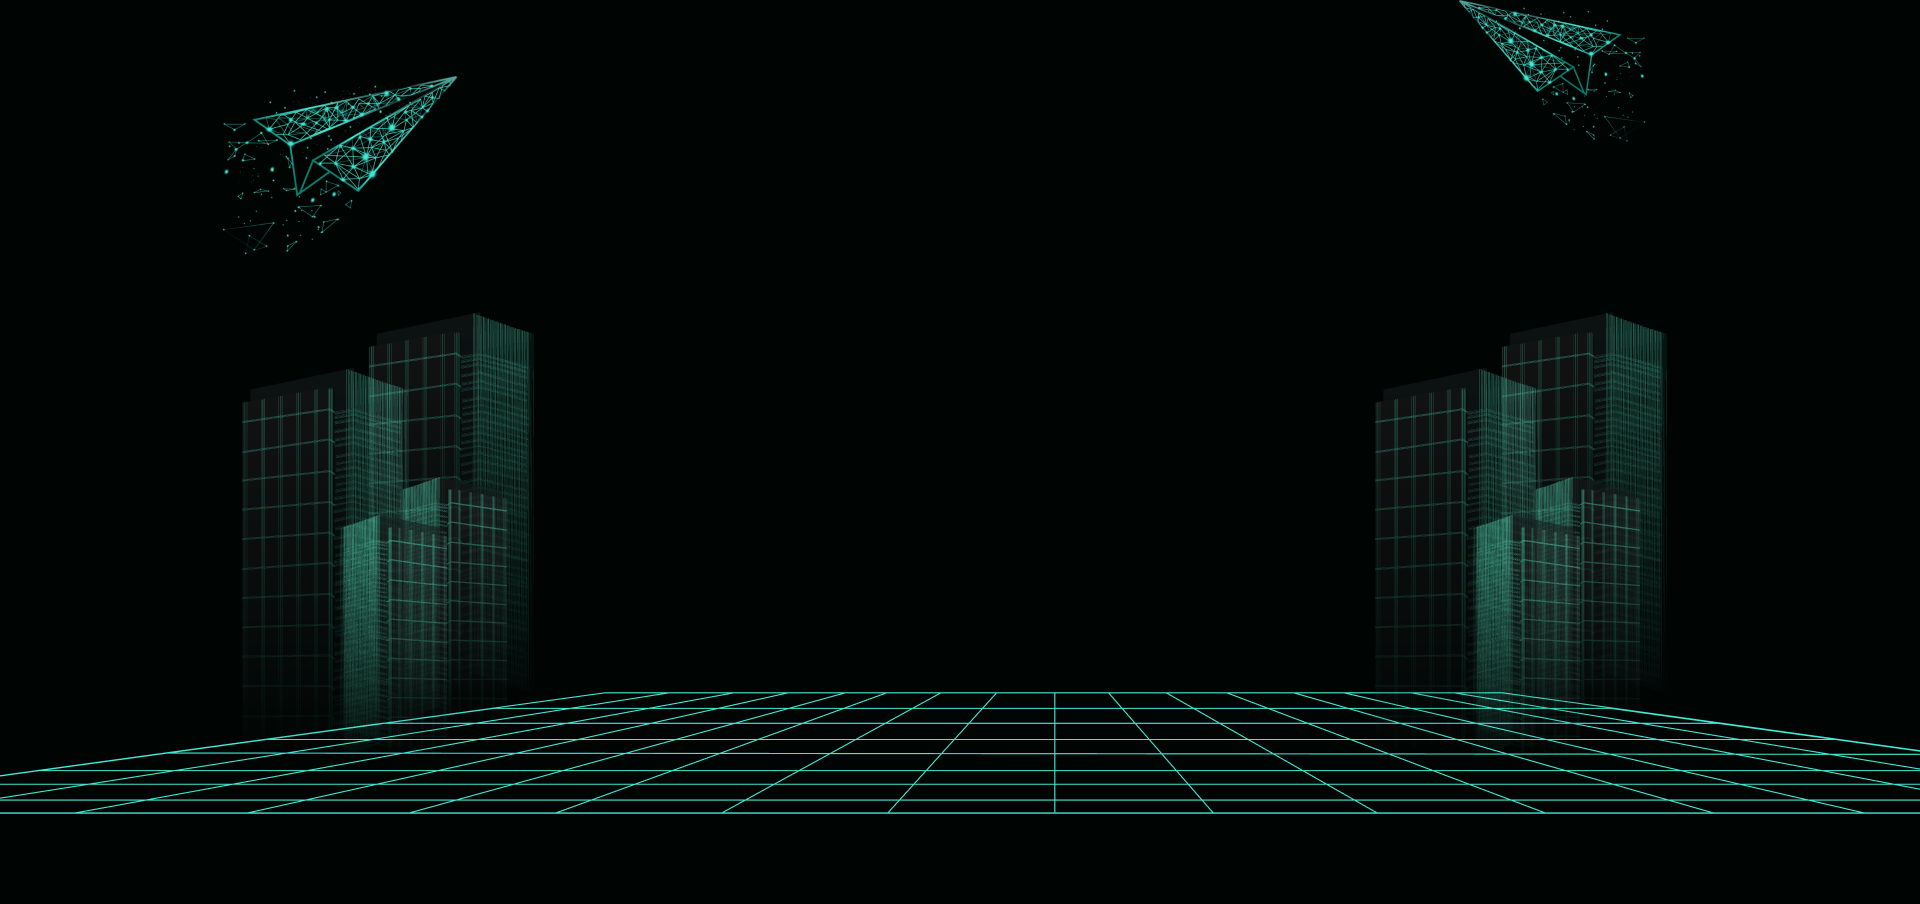
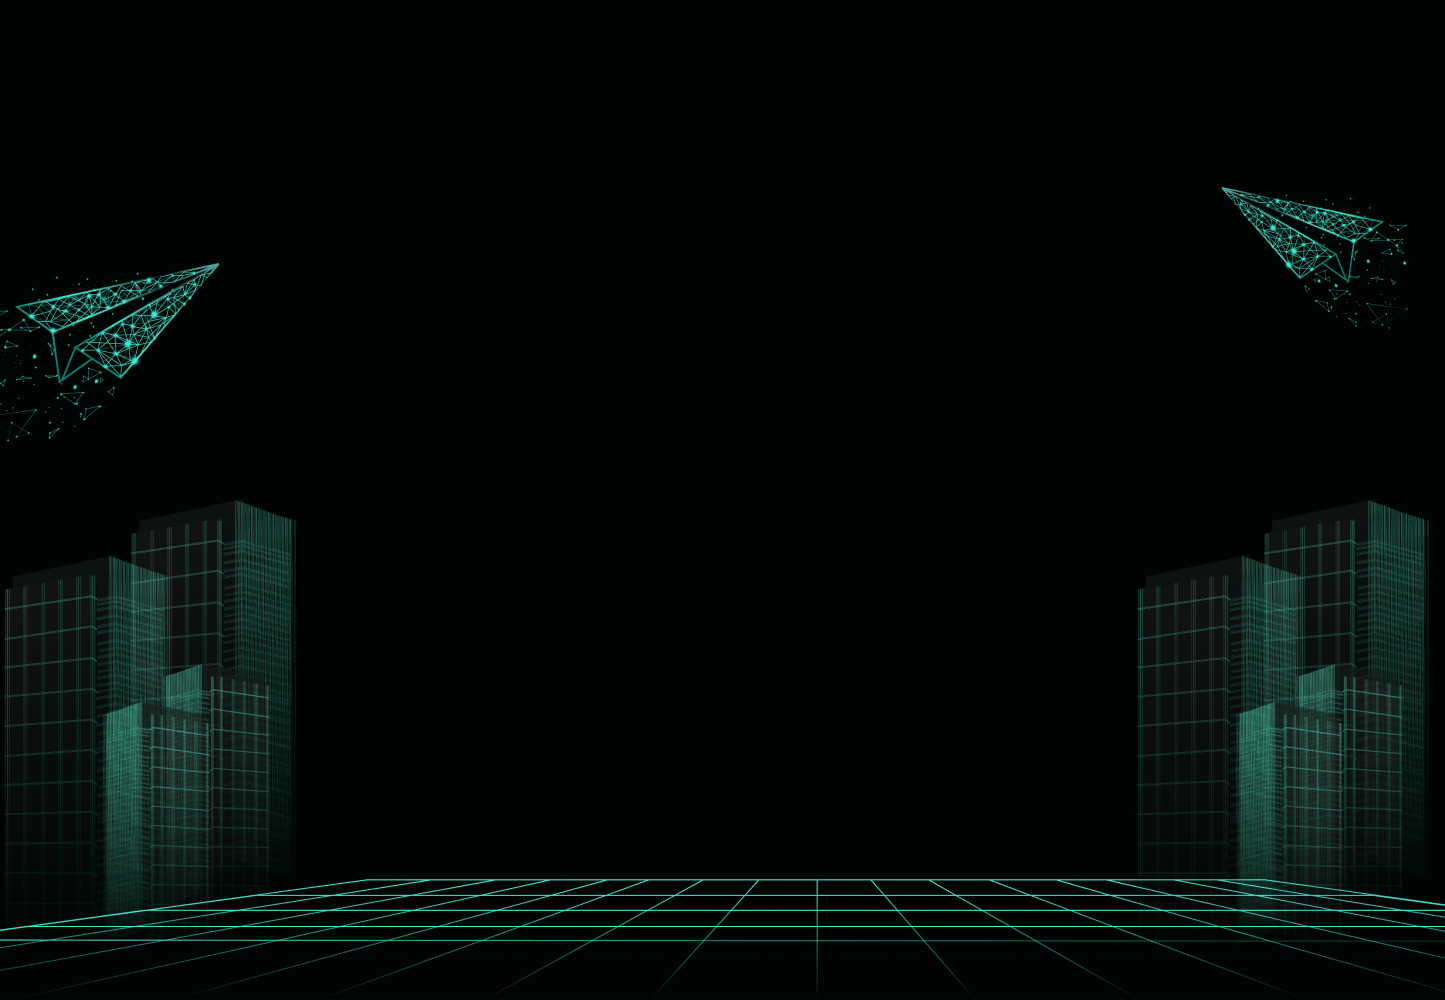
Optimization

diff --git a/src/sections/registration/Keseruan.tsx b/src/sections/registration/Keseruan.tsx
@@ -1,34 +1,57 @@
 import Image from "next/image";
-import { Button } from "@/components/elements/Button";
 import { HiOutlineArrowLeft, HiOutlineArrowRight } from 'react-icons/hi2'
 import { Carousel } from '@mantine/carousel';
-import { useRef } from "react";
 import { useState } from "react";
 import Tabs from "@/components/elements/Tabs";
 
 const events: {
   img: string,
+  title: string,
   desc: string
 }[] = [
   {
     img: "/icon/registration/icon-tourdecampus.png",
-    desc: "Tour de Campus"
+    title: "Tour de Campus",
+    desc: `Tour de Campus Fasilkom UI merupakan rangkaian acara utama pada Open House Fasilkom UI, dimana 
+    peserta akan datang ke Fasilkom UI dan melakukan serangkaian acara, seperti Tour Fasilkom UI, 
+    Mentoring Session, Fun coding, Interactive Class, Exhibition, Wall of Dream, Parent’s Talkshow, 
+    dan Grand Closing. Pada Tour de Campus Fasilkom UI ini peserta akan berinteraksi secara langsung 
+    dengan para civitas Fasilkom UI sehingga dapat memperluas wawasan peserta tentang Fasilkom.`
   },
   {
     img: "/icon/registration/icon-funcoding.png",
-    desc: "Fun Coding"
+    title: "Fun Coding",
+    desc: `Kegiatan ini merupakan salah satu ciri khas yang dimiliki Open House Fasilkom UI dari tahun ke 
+    tahun di mana para peserta mencoba menulis program secara langsung. Acara ini akan dikemas seperti 
+    sebuah permainan yang fun sehingga para peserta merasa bahwa coding itu seperti sedang memainkan game.`
   },
   {
     img: "/icon/registration/icon-class.png",
-    desc: "Interactive Class"
+    title: "Interactive Class",
+    desc: `Interactive Class merupakan kegiatan di mana peserta Open House Fasilkom akan merasakan 
+    pengalaman diajar langsung oleh dosen-dosen Fasilkom UI yang telah ditentukan. Kelas akan dibuat 
+    interaktif dengan memaksimalkan komunikasi serta pemanfaatan alat peraga untuk mendukung penyampaian 
+    materi yang disampaikan.`
   },
   {
     img: "/icon/registration/icon-talkshow.png",
-    desc: "Parent Talkshow"
+    title: "Parent Talkshow",
+    desc: `Parent’s Talkshow adalah salah satu acara yang akan berlangsung selama Main Event Open House 
+    Fasilkom UI 2023 berjalan. Acara ini akan mengundang speaker yang memiliki pemahaman tentang apa saja 
+    informasi yang dibutuhkan oleh peserta terkait penerimaan mahasiswa baru. Target dari acara ini adalah 
+    orang tua para peserta Open House Fasilkom UI 2023. Selama talkshow, para orang tua akan mendapatkan 
+    informasi seputar pendaftaran dan biaya kuliah di Fasilkom UI, prospek pekerjaan lulusan Fasilkom UI, 
+    dan banyak hal lainnya. Para orang tua juga diberi kesempatan untuk mengajukan pertanyaan kepada 
+    pembawa acara.`
   },
   {
     img: "/icon/registration/icon-connect.png",
-    desc: "CS Connect"
+    title: "CS Connect",
+    desc: `CS Connect adalah kegiatan yang akan diisi dengan Talkshow Online di main room Zoom dengan 
+    menghadirkan pengisi acara yang akan membawakan informasi-informasi tentang Fasilkom UI. Setelah sesi 
+    talkshow berakhir, peserta akan di-assign ke masing-masing breakout room untuk melaksanakan Mentoring 
+    Online dengan mentornya masing-masing dari LO. Materi yang diberikan akan berupa pengenalan jurusan 
+    yang ada di Fasilkom UI dan informasi teknis kegiatan pada Main Event selanjutnya.`
   },
 ]
 
@@ -80,7 +103,7 @@ export default function Keseruan() {
                     <div className="h-5/6 w-full flex items-center justify-center object-contain">
                       <Image src={event.img} alt="" width={100} height={100} className="object-contain h-full w-full"/>
                     </div>
-                    <p className="font-satoshi text-white-1 font-extrabold text-center text-xl">{event.desc}</p>
+                    <p className="font-satoshi text-white-1 font-extrabold text-center text-xl">{event.title}</p>
                   </div>     
                 </Carousel.Slide>
               ))}

diff --git a/src/sections/registration/ContactPerson.tsx b/src/sections/registration/ContactPerson.tsx
@@ -1,5 +1,5 @@
 import { Button } from "@/components/elements/Button";
-import { BsWhatsapp, BsInstagram } from "react-icons/bs"
+import { BsWhatsapp } from "react-icons/bs"
 
 const ContactPerson = () => {
   return (
@@ -14,33 +14,13 @@ const ContactPerson = () => {
         </p>
         <div className="flex md:flex-row flex-col mt-10 items-center px-5 gap-6">
           <a
-            href={'https://youtu.be/3MrUpj159rI?si=wEj4SQWzjL3K6f7e'}
+            href={'https://wa.me/6285161058384'}
             target="__blank"
             rel="noreferrer" 
             className="w-full"
           >
             <Button variant="primary" className="w-full">
-              <BsWhatsapp /> Jotaro
-            </Button>
-          </a>
-          <a
-            href={'https://youtu.be/dQw4w9WgXcQ?si=fHhfjbosNRiN96pf'}
-            target="__blank"
-            rel="noreferrer" 
-            className="w-full"
-          >
-            <Button variant="primary" className="w-full">
-              <BsWhatsapp /> Polnareff
-            </Button>
-          </a>
-          <a
-            href={'https://www.instagram.com/akanecco_2323/'}
-            target="__blank"
-            rel="noreferrer" 
-            className="w-full"
-          >
-            <Button variant="primary" className="w-full">
-              <BsInstagram /> Akane
+              <BsWhatsapp /> Open House Fasilkom UI
             </Button>
           </a>
         </div>

diff --git a/src/sections/registration/Keuntungan.tsx b/src/sections/registration/Keuntungan.tsx
@@ -1,10 +1,4 @@
 import Image from "next/image";
-import { Button } from "@/components/elements/Button";
-import { HiOutlineArrowLeft, HiOutlineArrowRight } from 'react-icons/hi2'
-import { Carousel } from '@mantine/carousel';
-import { useRef } from "react";
-import { useState } from "react";
-import Tabs from "@/components/elements/Tabs";
 
 const benefits: {
   img: string,
@@ -29,9 +23,8 @@ const benefits: {
 ]
 
 export default function Keuntungan() {
-  const [fullMode, setFullMode] = useState(true)
   return (
-    <section className="bg-center mt-10 py-10 flex flex-col items-center">
+    <section className="bg-[url(/registration/bg-keuntungan.png)] min-h-screen bg-center mt-10 py-10 flex flex-col items-center">
       <h1 className="mb-11 mt-32 font-satoshi text-white-1 font-extrabold text-4xl sm:text-5xl drop-shadow-sm shadow-white text-center px-5">
         Keuntungan Mengikuti OH Fasilkom
       </h1>
@@ -45,7 +38,6 @@ export default function Keuntungan() {
           </div>     
         ))}  
       </div>
-      <Image src="/registration/bg-keuntungan.png" alt="" width={1440} height={900} className="-mt-14 object-cover brightness-[.6]" />
     </section>
   )
 }

diff --git a/src/pages/about.tsx b/src/pages/about.tsx
@@ -1,7 +1,6 @@
-import React, { useEffect, useState } from "react";
-import dynamic, { DynamicOptions } from "next/dynamic";
+import React, { useState } from "react";
+import dynamic from "next/dynamic";
 import DayaTampung from "@/sections/about/DayaTampung";
-import Image from "next/image";
 import { Card } from "@/components/elements/Card";
 import { HiOutlineArrowLeft, HiOutlineArrowRight } from "react-icons/hi2";
 import { v4 as uuidv4 } from "uuid";
@@ -10,10 +9,6 @@ import { ListPrestasi } from '@/sections/about/ListPrestasi'
 import { WhatIsPacil } from '@/sections/about/WhatIsPacil'
 import FAQ from '@/sections/about/FAQ'
 import View360 from "@/sections/about/View360";
-
-import IProps from "react-spring-3d-carousel";
-
-import { ComponentType, ComponentClass } from "react";
 
 const Carousel = dynamic(() => import("@/components/elements/Carousel"), {
   ssr: false,

diff --git a/src/pages/registration.tsx b/src/pages/registration.tsx
@@ -2,12 +2,7 @@ import Image from "next/image";
 import { Button } from "@/components/elements/Button";
 import { Countdown } from "@/components/elements/Countdown";
 import { HiBookOpen, HiChevronDoubleRight } from "react-icons/hi2";
-// import { useEffect } from "react";
-import Timeline from "@/sections/home/Timeline";
 import Link from "next/link";
-import Definition from "@/sections/home/Definition";
-import WTS from "@/sections/home/WTS";
-import VideoOH from "@/sections/home/VideoOH";
 import Keseruan from "@/sections/registration/Keseruan";
 import Keuntungan from "@/sections/registration/Keuntungan";
 import FAQ from "@/sections/registration/FAQ";

diff --git a/src/sections/registration/FAQ.tsx b/src/sections/registration/FAQ.tsx
@@ -40,7 +40,7 @@ const contentData: {
 
 const FAQ = () => {
     return (
-      <section className="bg-[url(/registration/bg-faq.png)] bg-contain bg-bottom bg-no-repeat min-h-screen mt-10 py-10 flex flex-col items-center">
+      <section className="bg-[url(/registration/bg-faq.png)] bg-cover bg-top min-h-[120vh] mt-10 py-10 flex flex-col items-center">
         <div className="z-10 flex bg-black-3 sm:w-2/3 w-11/12 rounded-xl border-2 border-green-300 text-center justify-center backdrop-blur-xl py-5">
             <div className="flex flex-col items-center">
                 <div className="text-center">

diff --git a/src/pages/index.tsx b/src/pages/index.tsx
@@ -2,7 +2,6 @@ import Image from "next/image";
 import { Button } from "@/components/elements/Button";
 import { Countdown } from "@/components/elements/Countdown";
 import { HiBookOpen, HiChevronDoubleRight } from "react-icons/hi2";
-// import { useEffect } from "react";
 import Timeline from "@/sections/home/Timeline";
 import Link from "next/link";
 import Definition from "@/sections/home/Definition";
